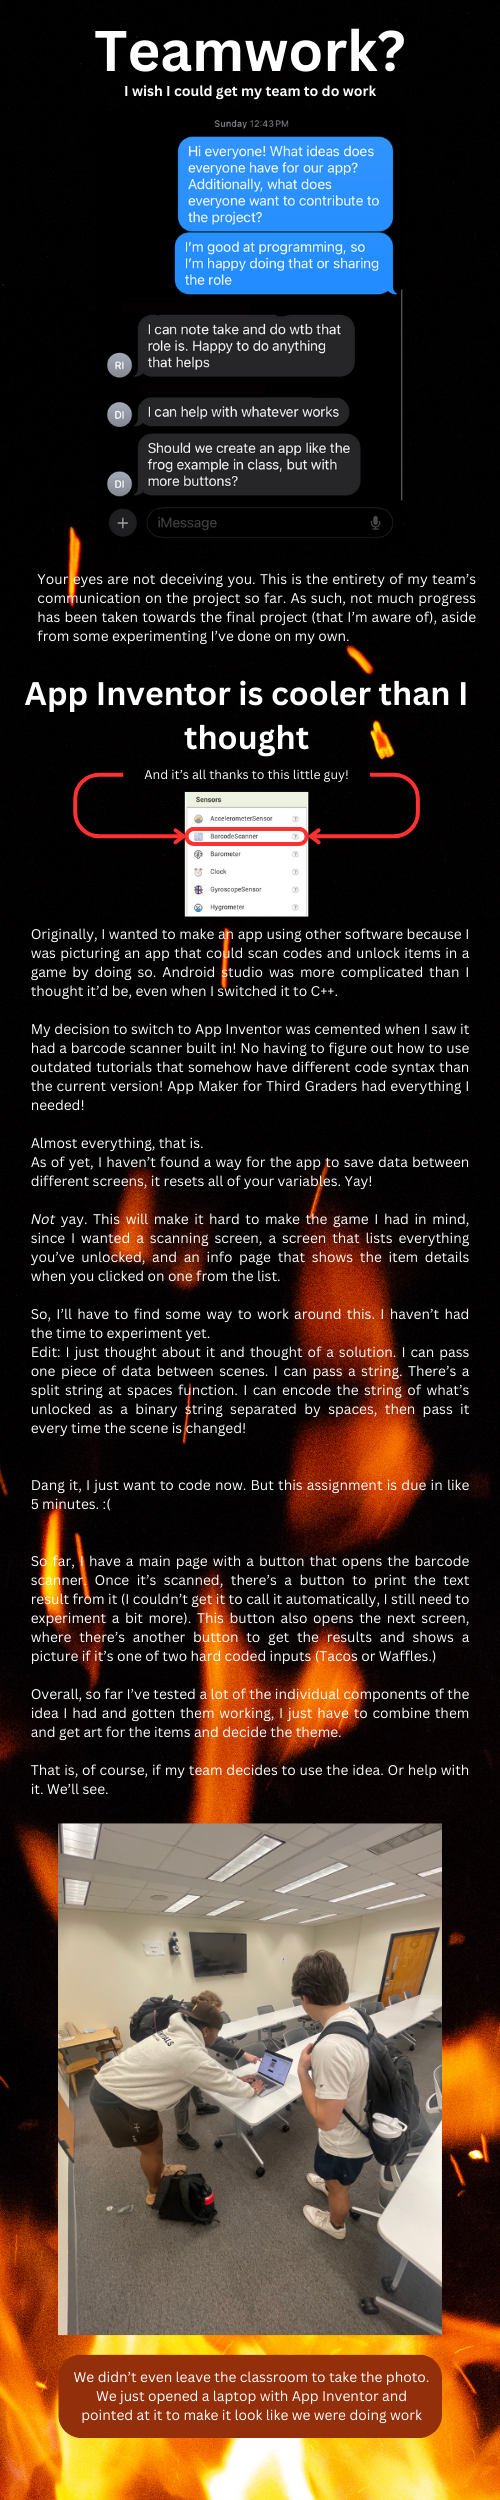
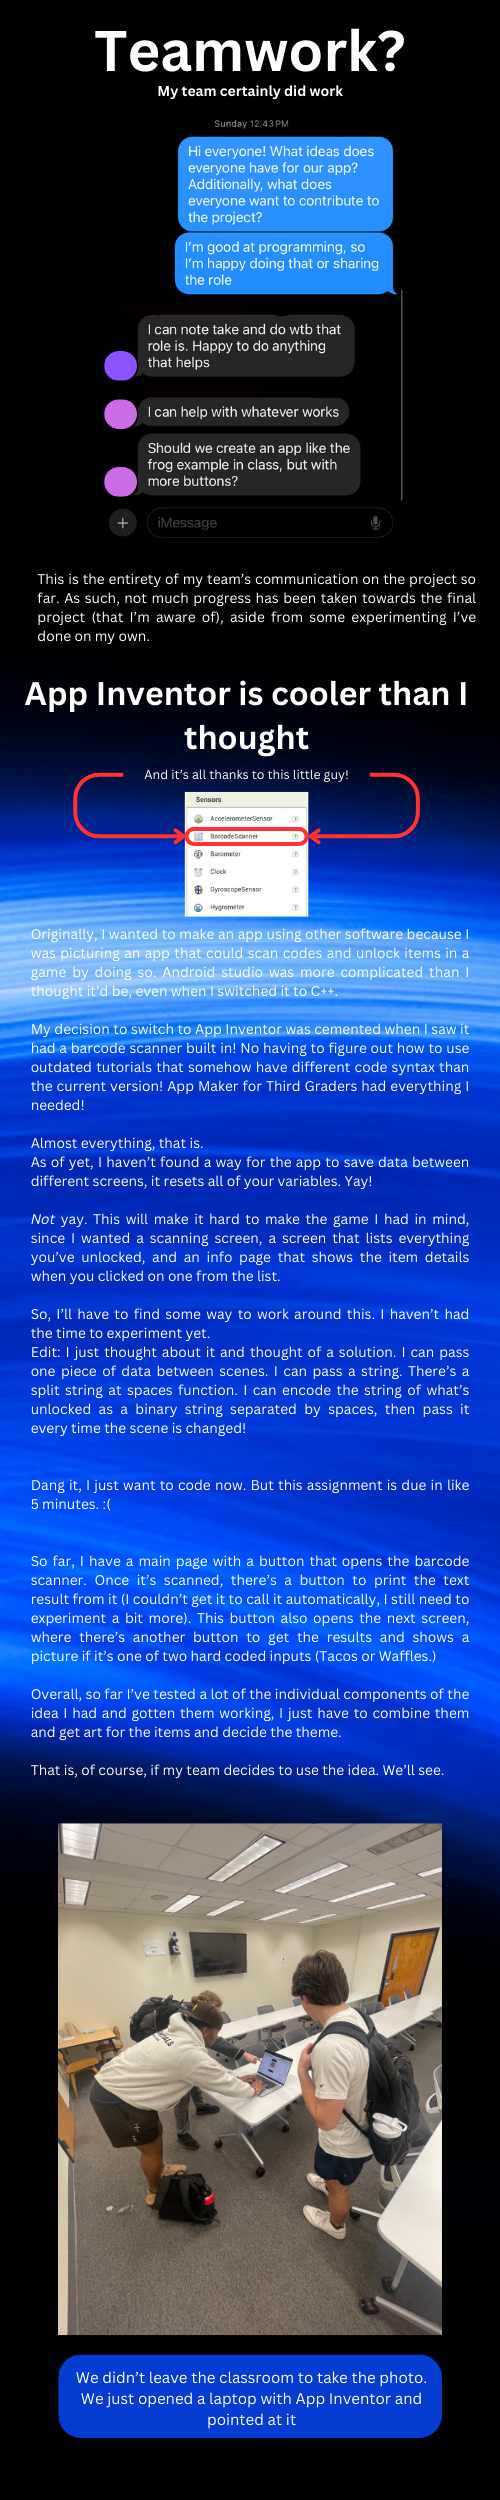
Made it nicer

diff --git a/Assignment3_Teamwork.html b/Assignment3_Teamwork.html
@@ -14,7 +14,7 @@
         padding: 50px;
         margin: auto;
         width: 50%;
-        height: 3600px;
+        height: 3700px;
     }
     #rcorners2 {
         border-radius: 25px 100px;
@@ -37,20 +37,21 @@
 
 <div id="rcorners1">
     <img src="Teamwork.png" alt="Game Code" class="center">
-</div>
-<p></p>
-<h2 style="text-align: center;">Edit post class: we talked about our plans after class and my teammates were excited and offered to do things to help. I may have judged them too harshly.</h2>
-<p></p>
-<div id="rcorners2">
-    <div style="text-align:center">    
-        <a href="index.html">Assignment 1</a>
+    <p></p>
+    <!-- <h2 style="text-align: center;">Edit post class: we talked about our plans after class and my teammates were excited and offered to do things to help. I may have judged them too harshly.</h2> -->
+    <p></p>
+    <div id="rcorners2">
+        <div style="text-align:center">    
+            <a href="index.html">Assignment 1</a>
+        </div>
+    </div>
+    <p></p>
+    <div id="rcorners2">
+        <div style="text-align:center">    
+            <a href="Assignment2.html">Assignment 2</a>
+        </div>
     </div>
 </div>
-<p></p>
-<div id="rcorners2">
-    <div style="text-align:center">    
-        <a href="Assignment2.html">Assignment 2</a>
-    </div>
-</div>
+
 </body>
 </html>

diff --git a/Assignment2.html b/Assignment2.html
@@ -14,7 +14,7 @@
         padding: 50px;
         margin: auto;
         width: 50%;
-        height: 3840px;
+        height: 3890px;
     }
     #rcorners2 {
         border-radius: 25px 100px;

diff --git a/index.html b/index.html
@@ -14,7 +14,7 @@
         padding: 20px;
         margin: auto;
         width: 50%;
-        height: 820px;
+        height: 890px;
     }
     #rcorners2 {
         border-radius: 25px 100px;
